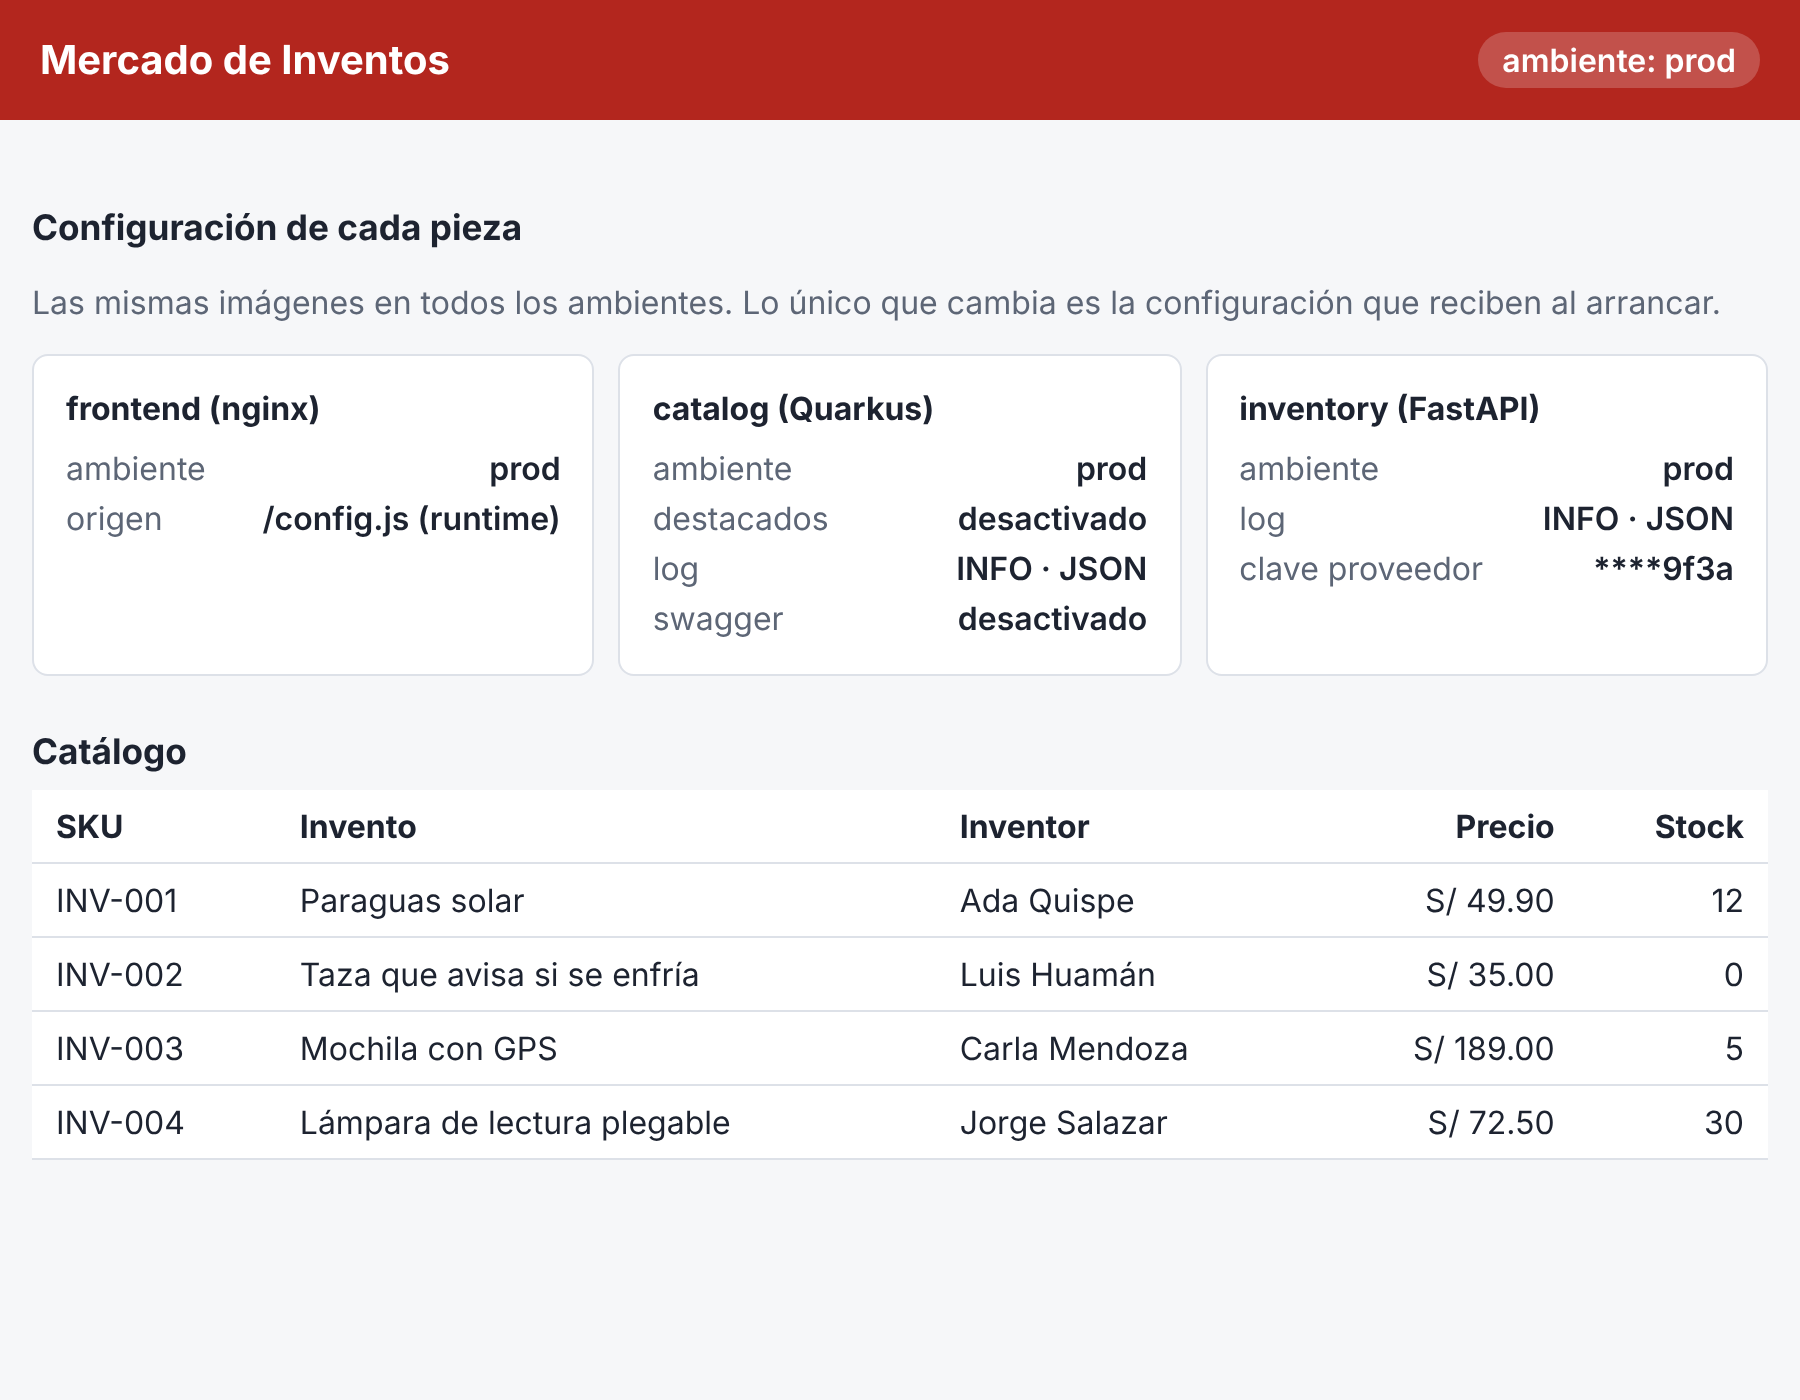
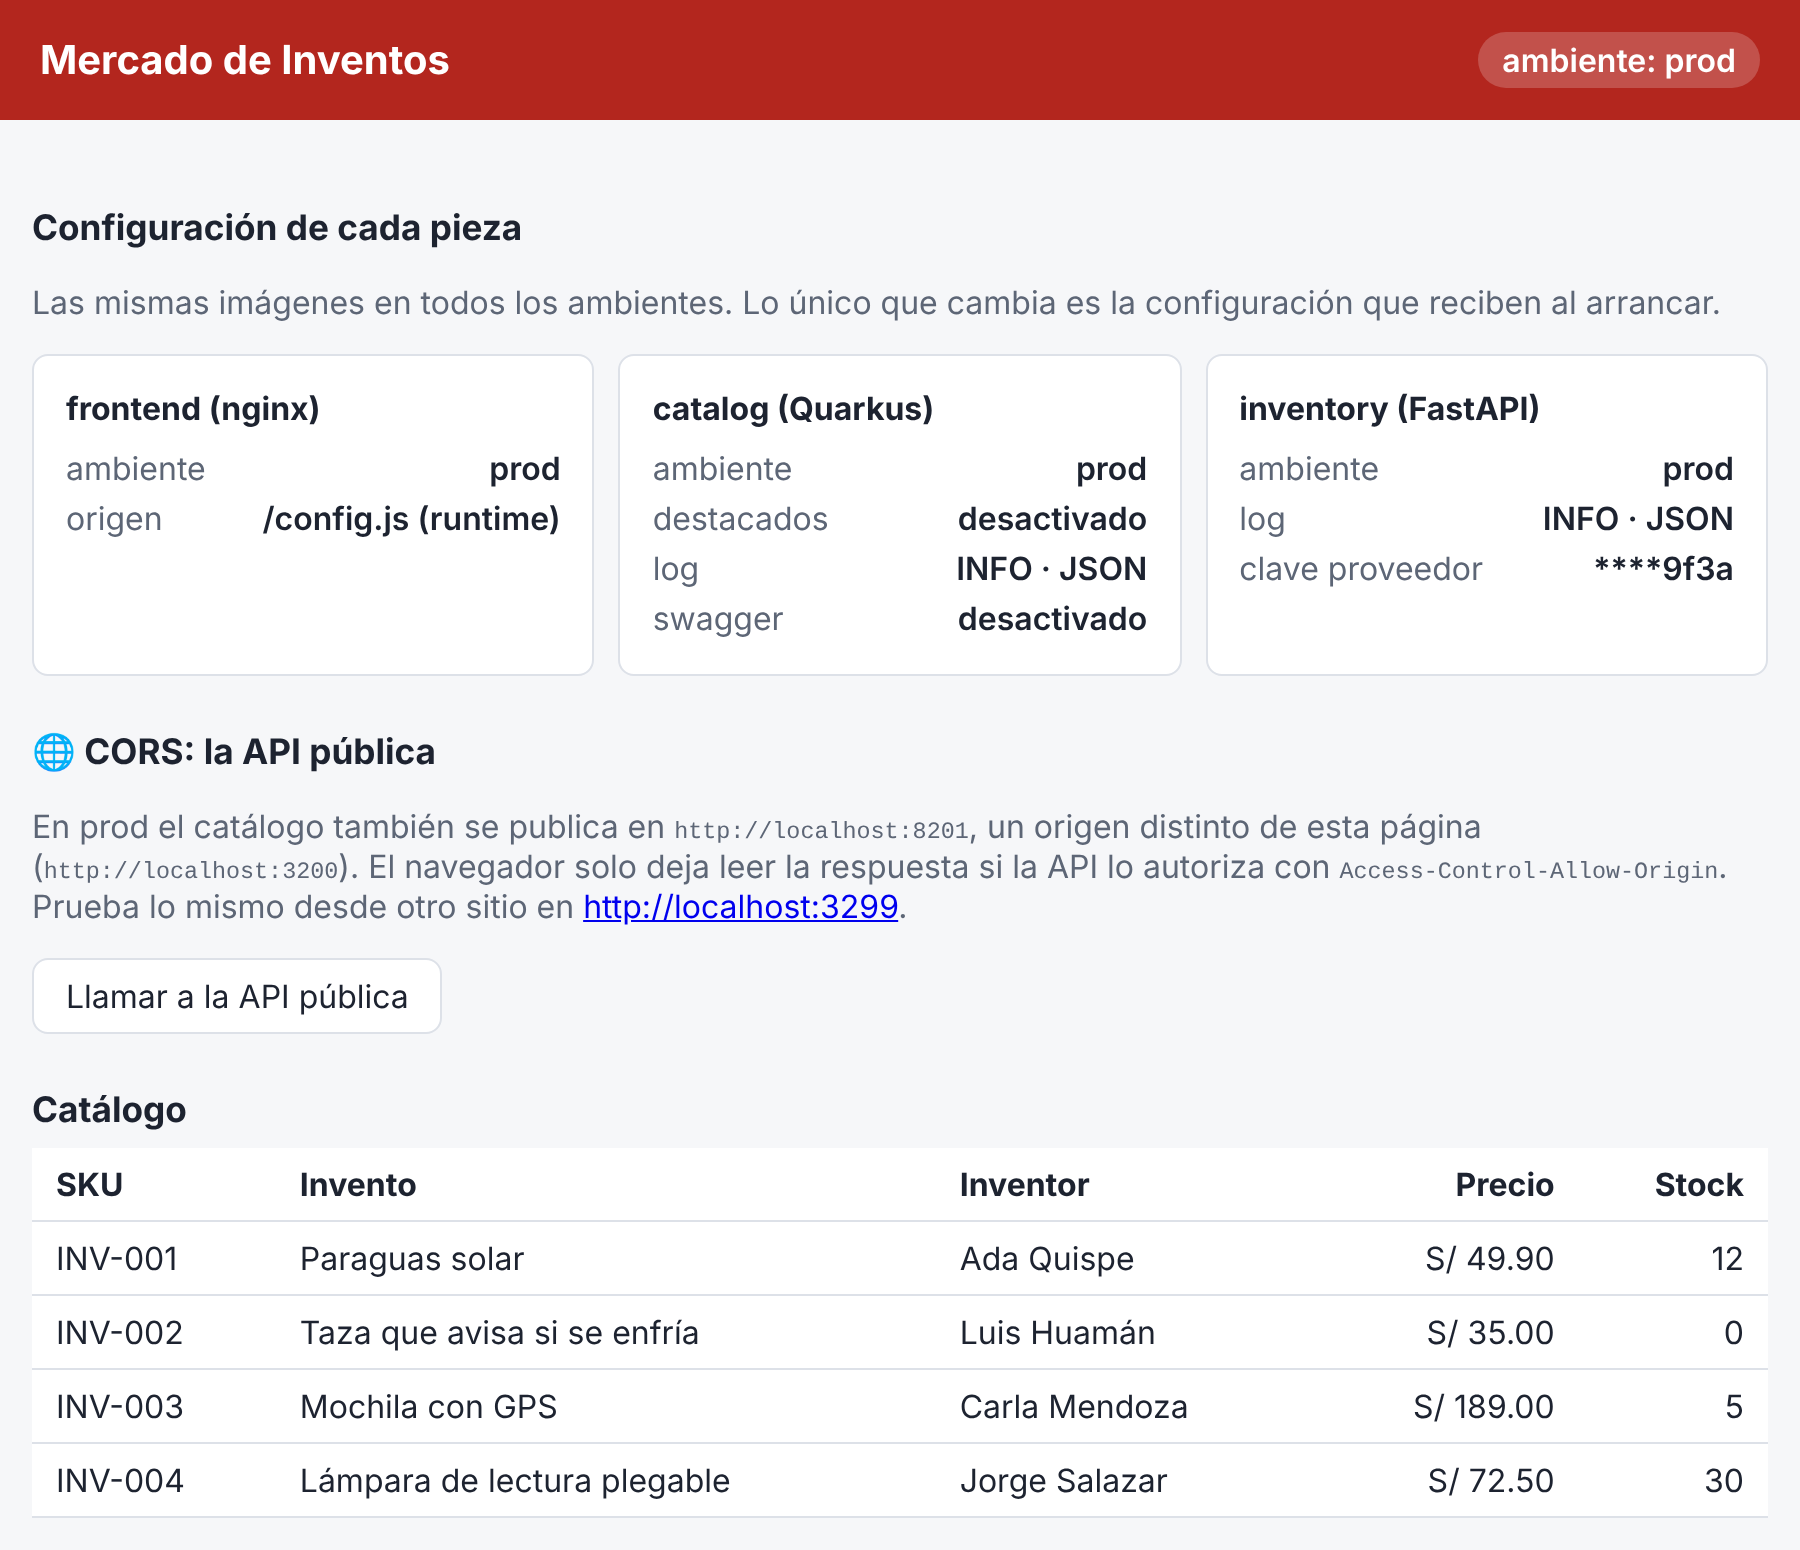
lab 01: CORS en prod y DEBUG solo en dev (L01-4, L01-5)
- Prod publica el catálogo como API pública (:8201) con CORS limitado al
  origen de la web (:3200). La web la llama con un botón y un "otro sitio"
  (:3299) muestra el bloqueo del navegador. Tests de CORS, chequeos en
  smoke.sh prod y capturas.
- El nivel de log aplica a todo (raíz en Quarkus; raíz y uvicorn en Python).
  Local y prod en INFO, dev en DEBUG.
- El README explica por qué cada ambiente entrega los secretos distinto.

Claude-Session: https://claude.ai/code/session_01VVVxQoLuhEH1zwKee4AA5y

diff --git a/labs/01-ambientes/frontend/src/App.tsx b/labs/01-ambientes/frontend/src/App.tsx
@@ -1,6 +1,7 @@
 import { useEffect, useState } from 'react'
 import { loadConfig, findEnvironmentMismatches, type ServiceInfo } from './config'
 import { fetchJson, withStock, type Invention, type InventionWithStock, type StockLevel } from './catalog'
+import { probePublicApi, type ProbeResult } from './cors'
 
 interface CatalogInfo extends ServiceInfo {
   featuredEnabled: boolean
@@ -19,6 +20,23 @@ const config = loadConfig()
 
 function formatPrice(price = 0, currency = 'PEN') {
   return new Intl.NumberFormat('es-PE', { style: 'currency', currency }).format(price)
+}
+
+function CorsDemo({ apiUrl }: { apiUrl: string }) {
+  const [result, setResult] = useState<ProbeResult | null>(null)
+  return (
+    <section>
+      <h2>🌐 CORS: la API pública</h2>
+      <p className="muted">
+        En prod el catálogo también se publica en <code>{apiUrl}</code>, un origen distinto de esta página (
+        <code>{window.location.origin}</code>). El navegador solo deja leer la respuesta si la API lo autoriza con{' '}
+        <code>Access-Control-Allow-Origin</code>. Prueba lo mismo desde otro sitio en{' '}
+        <a href="http://localhost:3299">http://localhost:3299</a>.
+      </p>
+      <button onClick={() => probePublicApi(apiUrl).then(setResult)}>Llamar a la API pública</button>
+      {result && <p className={result.ok ? 'ok' : 'alert'}>{result.ok ? '✅' : '⛔'} {result.detail}</p>}
+    </section>
+  )
 }
 
 function ServiceCard({ title, info, rows }: { title: string; info: unknown; rows: [string, unknown][] }) {
@@ -112,6 +130,8 @@ export default function App() {
             />
           </div>
         </section>
+
+        {config.publicApiUrl && <CorsDemo apiUrl={config.publicApiUrl} />}
 
         {featured.length > 0 && (
           <section>

diff --git a/labs/01-ambientes/cors-demo/index.html b/labs/01-ambientes/cors-demo/index.html
@@ -1,0 +1,32 @@
+<!doctype html>
+<html lang="es">
+<head>
+  <meta charset="utf-8">
+  <meta name="viewport" content="width=device-width, initial-scale=1">
+  <title>Otro sitio</title>
+  <style>
+    :root { --bg: #fff8e6; --text: #2b2112; --border: #e8d7a8; color-scheme: light dark; }
+    @media (prefers-color-scheme: dark) { :root { --bg: #1f1a10; --text: #f3e9d2; --border: #4a3d1f; } }
+    body { font-family: system-ui, sans-serif; background: var(--bg); color: var(--text); max-width: 720px; margin: 0 auto; padding: 1rem; }
+    pre { white-space: pre-wrap; border: 1px solid var(--border); border-radius: 8px; padding: 1rem; }
+  </style>
+</head>
+<body>
+  <h1>🕵 Otro sitio (http://localhost:3299)</h1>
+  <p>
+    Esta página NO es Mercado de Inventos. Intenta leer la API pública del catálogo
+    (<code>http://localhost:8201/api/info</code>) desde el navegador.
+  </p>
+  <p>
+    La API solo autoriza al origen <code>http://localhost:3200</code>, así que el navegador
+    <b>bloquea la lectura</b>. Abre la consola de DevTools para ver el motivo.
+  </p>
+  <pre id="result">Llamando…</pre>
+  <script>
+    fetch('http://localhost:8201/api/info')
+      .then((r) => r.json())
+      .then((info) => { document.getElementById('result').textContent = '✅ Leí la respuesta: ' + JSON.stringify(info) })
+      .catch((e) => { document.getElementById('result').textContent = '⛔ ' + e.message + '\n\nEl navegador bloqueó la lectura por CORS.' })
+  </script>
+</body>
+</html>

diff --git a/labs/01-ambientes/frontend/src/cors.ts b/labs/01-ambientes/frontend/src/cors.ts
@@ -1,0 +1,33 @@
+// Demostración de CORS (solo prod).
+//
+// En local y dev el navegador habla con UN solo origen: nginx reenvía /api/* a los
+// servicios, así que no hay llamadas entre orígenes y CORS no aplica.
+// En prod, además, el catálogo se publica como API pública en otro origen
+// (http://localhost:8201). Cuando esta página la llama directo, el NAVEGADOR
+// pregunta: ¿la API permite que http://localhost:3200 lea su respuesta?
+// La API contesta con Access-Control-Allow-Origin, o el navegador bloquea la lectura.
+
+export interface ProbeResult {
+  ok: boolean
+  detail: string
+}
+
+type FetchLike = (input: string, init?: RequestInit) => Promise<Response>
+
+export async function probePublicApi(baseUrl: string, fetchImpl: FetchLike = fetch): Promise<ProbeResult> {
+  try {
+    const response = await fetchImpl(`${baseUrl}/api/info`)
+    if (!response.ok) {
+      return { ok: false, detail: `HTTP ${response.status}` }
+    }
+    const info = (await response.json()) as { service: string; environment: string }
+    return { ok: true, detail: `${info.service} respondió desde ${info.environment}` }
+  } catch (error) {
+    // El navegador NO dice "CORS" en el error (por seguridad): solo "Failed to fetch".
+    // El motivo real aparece en la consola de DevTools.
+    return {
+      ok: false,
+      detail: `${(error as Error).message}. En una llamada a otro origen suele ser CORS: mira la consola del navegador.`,
+    }
+  }
+}

diff --git a/labs/01-ambientes/frontend/src/cors.test.ts b/labs/01-ambientes/frontend/src/cors.test.ts
@@ -1,0 +1,29 @@
+import { describe, expect, it } from 'vitest'
+import { probePublicApi } from './cors'
+
+describe('probePublicApi', () => {
+  it('reports success when the browser lets the cross-origin call through', async () => {
+    const fakeFetch = async () => new Response(JSON.stringify({ service: 'catalog', environment: 'prod' }))
+
+    const result = await probePublicApi('http://localhost:8201', fakeFetch)
+
+    expect(result).toEqual({ ok: true, detail: 'catalog respondió desde prod' })
+  })
+
+  it('explains that a network error on a cross-origin call is usually CORS', async () => {
+    const fakeFetch = async () => {
+      throw new TypeError('Failed to fetch')
+    }
+
+    const result = await probePublicApi('http://localhost:8201', fakeFetch)
+
+    expect(result.ok).toBe(false)
+    expect(result.detail).toContain('CORS')
+  })
+
+  it('reports HTTP errors as such', async () => {
+    const fakeFetch = async () => new Response('nope', { status: 403 })
+
+    expect(await probePublicApi('http://localhost:8201', fakeFetch)).toEqual({ ok: false, detail: 'HTTP 403' })
+  })
+})

diff --git a/labs/01-ambientes/frontend/src/config.test.ts b/labs/01-ambientes/frontend/src/config.test.ts
@@ -3,13 +3,13 @@ import { loadConfig, findEnvironmentMismatches } from './config'
 
 describe('loadConfig', () => {
   it('reads the runtime config injected by /config.js', () => {
-    const win = { __APP_CONFIG__: { environment: 'prod', appTitle: 'Mercado' } }
+    const win = { __APP_CONFIG__: { environment: 'prod', appTitle: 'Mercado', publicApiUrl: 'http://api' } }
 
-    expect(loadConfig(win)).toEqual({ environment: 'prod', appTitle: 'Mercado' })
+    expect(loadConfig(win)).toEqual({ environment: 'prod', appTitle: 'Mercado', publicApiUrl: 'http://api' })
   })
 
   it('falls back to safe defaults when /config.js did not load', () => {
-    expect(loadConfig({})).toEqual({ environment: 'desconocido', appTitle: 'Mercado de Inventos' })
+    expect(loadConfig({})).toEqual({ environment: 'desconocido', appTitle: 'Mercado de Inventos', publicApiUrl: '' })
   })
 
   it('fills missing keys with defaults', () => {

diff --git a/labs/01-ambientes/frontend/src/config.ts b/labs/01-ambientes/frontend/src/config.ts
@@ -11,6 +11,8 @@
 export interface AppConfig {
   environment: string
   appTitle: string
+  /** URL de la API pública en OTRO origen (solo prod, para la demostración de CORS). Vacío = no hay. */
+  publicApiUrl: string
 }
 
 /** Lo que responde GET /api/info de cada servicio (solo los campos que usa la UI). */
@@ -25,7 +27,7 @@ declare global {
   }
 }
 
-const DEFAULTS: AppConfig = { environment: 'desconocido', appTitle: 'Mercado de Inventos' }
+const DEFAULTS: AppConfig = { environment: 'desconocido', appTitle: 'Mercado de Inventos', publicApiUrl: '' }
 
 export function loadConfig(win: Pick<Window, '__APP_CONFIG__'> = window): AppConfig {
   return { ...DEFAULTS, ...(win.__APP_CONFIG__ ?? {}) }

diff --git a/labs/01-ambientes/frontend/src/styles.css b/labs/01-ambientes/frontend/src/styles.css
@@ -60,6 +60,25 @@ h2 { font-size: 1.1rem; margin: 1.75rem 0 0.5rem; }
   background: rgb(179 38 30 / 0.08);
 }
 
+.ok {
+  padding: 0.75rem 1rem;
+  border-radius: 8px;
+  border: 1px solid var(--local);
+  background: rgb(31 138 76 / 0.08);
+}
+
+button {
+  font: inherit;
+  padding: 0.5rem 1rem;
+  border: 1px solid var(--border);
+  border-radius: 8px;
+  background: var(--surface);
+  color: var(--text);
+  cursor: pointer;
+}
+
+code { font-size: 0.9em; }
+
 .cards {
   display: grid;
   grid-template-columns: repeat(auto-fit, minmax(220px, 1fr));

diff --git a/labs/01-ambientes/services/catalog/src/test/java/com/mercadoinventos/catalog/CorsTest.java b/labs/01-ambientes/services/catalog/src/test/java/com/mercadoinventos/catalog/CorsTest.java
@@ -1,0 +1,48 @@
+package com.mercadoinventos.catalog;
+
+import static io.restassured.RestAssured.given;
+import static org.hamcrest.Matchers.equalTo;
+import static org.hamcrest.Matchers.nullValue;
+
+import io.quarkus.test.junit.QuarkusTest;
+import io.quarkus.test.junit.QuarkusTestProfile;
+import io.quarkus.test.junit.TestProfile;
+import java.util.Map;
+import org.junit.jupiter.api.Test;
+
+/** La configuración de CORS de prod: solo el origen del frontend puede leer la API desde un navegador. */
+@QuarkusTest
+@TestProfile(CorsTest.ProdCors.class)
+class CorsTest {
+
+    public static class ProdCors implements QuarkusTestProfile {
+        @Override
+        public Map<String, String> getConfigOverrides() {
+            return Map.of("quarkus.http.cors.enabled", "true",
+                    "quarkus.http.cors.origins", "http://localhost:3200");
+        }
+    }
+
+    @Test
+    void theOfficialFrontendIsAllowed() {
+        given().header("Origin", "http://localhost:3200")
+                .when().get("/api/info")
+                .then().statusCode(200)
+                .header("Access-Control-Allow-Origin", equalTo("http://localhost:3200"));
+    }
+
+    @Test
+    void anyOtherOriginIsNotAllowed() {
+        given().header("Origin", "http://localhost:3299")
+                .when().get("/api/info")
+                .then().header("Access-Control-Allow-Origin", nullValue());
+    }
+
+    @Test
+    void preflightFromAnotherOriginIsRejected() {
+        given().header("Origin", "http://localhost:3299")
+                .header("Access-Control-Request-Method", "GET")
+                .when().options("/api/info")
+                .then().header("Access-Control-Allow-Origin", nullValue());
+    }
+}

diff --git a/labs/01-ambientes/services/catalog/src/test/java/com/mercadoinventos/catalog/InfoResourceDevLikeTest.java b/labs/01-ambientes/services/catalog/src/test/java/com/mercadoinventos/catalog/InfoResourceDevLikeTest.java
@@ -15,16 +15,16 @@ import static org.hamcrest.Matchers.equalTo;
  * No hay ningún "if (prod)" en la aplicación; solo cambian los valores.
  */
 @QuarkusTest
-@TestProfile(InfoResourceProdLikeTest.ProdLike.class)
-class InfoResourceProdLikeTest {
+@TestProfile(InfoResourceDevLikeTest.DevLike.class)
+class InfoResourceDevLikeTest {
 
-    public static class ProdLike implements QuarkusTestProfile {
+    public static class DevLike implements QuarkusTestProfile {
         @Override
         public Map<String, String> getConfigOverrides() {
             return Map.of(
-                "app.environment", "prod",
+                "app.environment", "dev",
                 "app.featured-enabled", "true",
-                "quarkus.log.category.\"com.mercadoinventos\".level", "DEBUG");
+                "quarkus.log.level", "DEBUG");
         }
     }
 
@@ -34,7 +34,7 @@ class InfoResourceProdLikeTest {
             .when().get("/api/info")
             .then()
             .statusCode(200)
-            .body("environment", equalTo("prod"))
+            .body("environment", equalTo("dev"))
             .body("featuredEnabled", equalTo(true))
             .body("logLevel", equalTo("DEBUG"));
     }

diff --git a/labs/01-ambientes/services/inventory/tests/test_logging.py b/labs/01-ambientes/services/inventory/tests/test_logging.py
@@ -4,12 +4,20 @@ import logging
 from app.logging_setup import JsonFormatter, configure_logging
 
 
-def test_log_level_applies_to_the_app_logger_only():
+def test_log_level_applies_to_everything():
     configure_logging("DEBUG", as_json=False)
 
-    assert logging.getLogger("inventory").level == logging.DEBUG
-    # Las librerías (uvicorn, asyncio...) se quedan en INFO: DEBUG es para NUESTRO código.
-    assert logging.getLogger().level == logging.INFO
+    # El nivel aplica a todo: nuestro código y las librerías (uvicorn, SQLAlchemy...).
+    assert logging.getLogger().level == logging.DEBUG
+    assert logging.getLogger("inventory").getEffectiveLevel() == logging.DEBUG
+    assert logging.getLogger("uvicorn.access").level == logging.DEBUG
+
+
+def test_info_hides_debug_messages_everywhere():
+    configure_logging("INFO", as_json=False)
+
+    assert not logging.getLogger("sqlalchemy.engine").isEnabledFor(logging.DEBUG)
+    assert not logging.getLogger("inventory").isEnabledFor(logging.DEBUG)
 
 
 def test_json_formatter_produces_structured_entries():

diff --git a/labs/01-ambientes/services/inventory/app/logging_setup.py b/labs/01-ambientes/services/inventory/app/logging_setup.py
@@ -31,6 +31,8 @@ def configure_logging(level: str, as_json: bool) -> None:
 
     root = logging.getLogger()
     root.handlers = [handler]
-    root.setLevel(logging.INFO)
-    # El nivel configurable aplica a NUESTRO código; las librerías quedan en INFO.
-    logging.getLogger("inventory").setLevel(level.upper())
+    # El nivel aplica a TODO: nuestro código, uvicorn, SQLAlchemy, httpx...
+    # DEBUG solo en dev: puede mostrar datos sensibles (SQL, headers).
+    root.setLevel(level.upper())
+    for name in ("uvicorn", "uvicorn.error", "uvicorn.access"):
+        logging.getLogger(name).setLevel(level.upper())

diff --git a/labs/01-ambientes/services/catalog/src/main/java/com/mercadoinventos/catalog/InfoResource.java b/labs/01-ambientes/services/catalog/src/main/java/com/mercadoinventos/catalog/InfoResource.java
@@ -21,7 +21,7 @@ public class InfoResource {
     private final boolean swaggerEnabled;
 
     InfoResource(AppConfig config,
-                 @ConfigProperty(name = "quarkus.log.category.\"com.mercadoinventos\".level") String logLevel,
+                 @ConfigProperty(name = "quarkus.log.level") String logLevel,
                  @ConfigProperty(name = "quarkus.log.console.json.enabled") boolean logJson,
                  @ConfigProperty(name = "quarkus.swagger-ui.enabled") boolean swaggerEnabled) {
         this.config = config;
